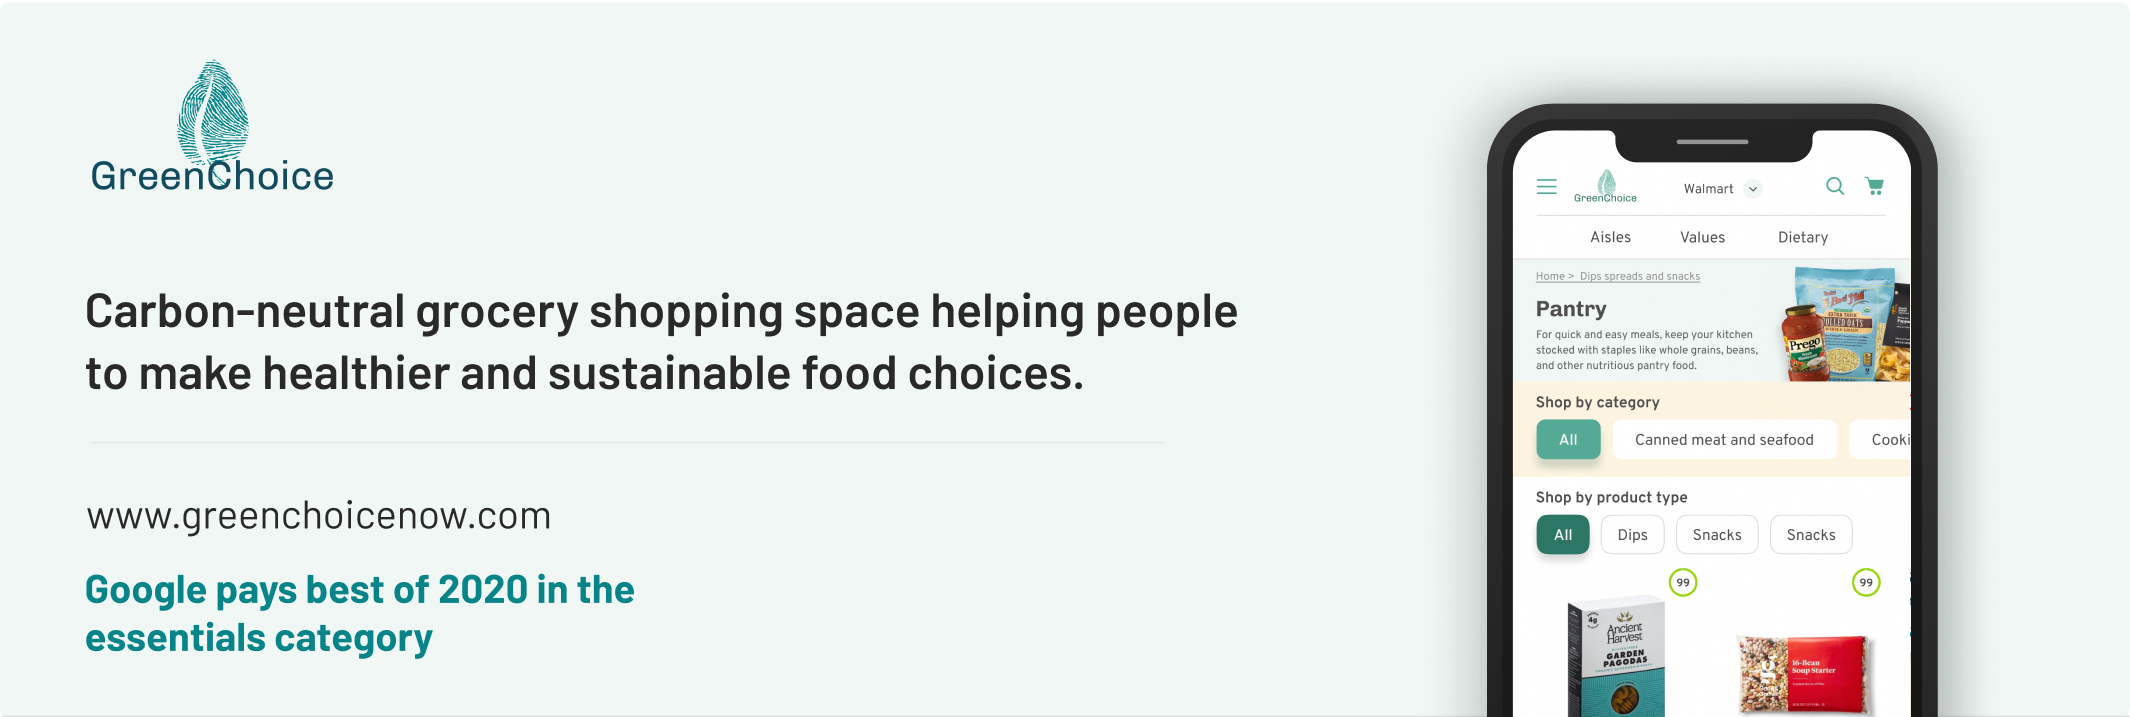
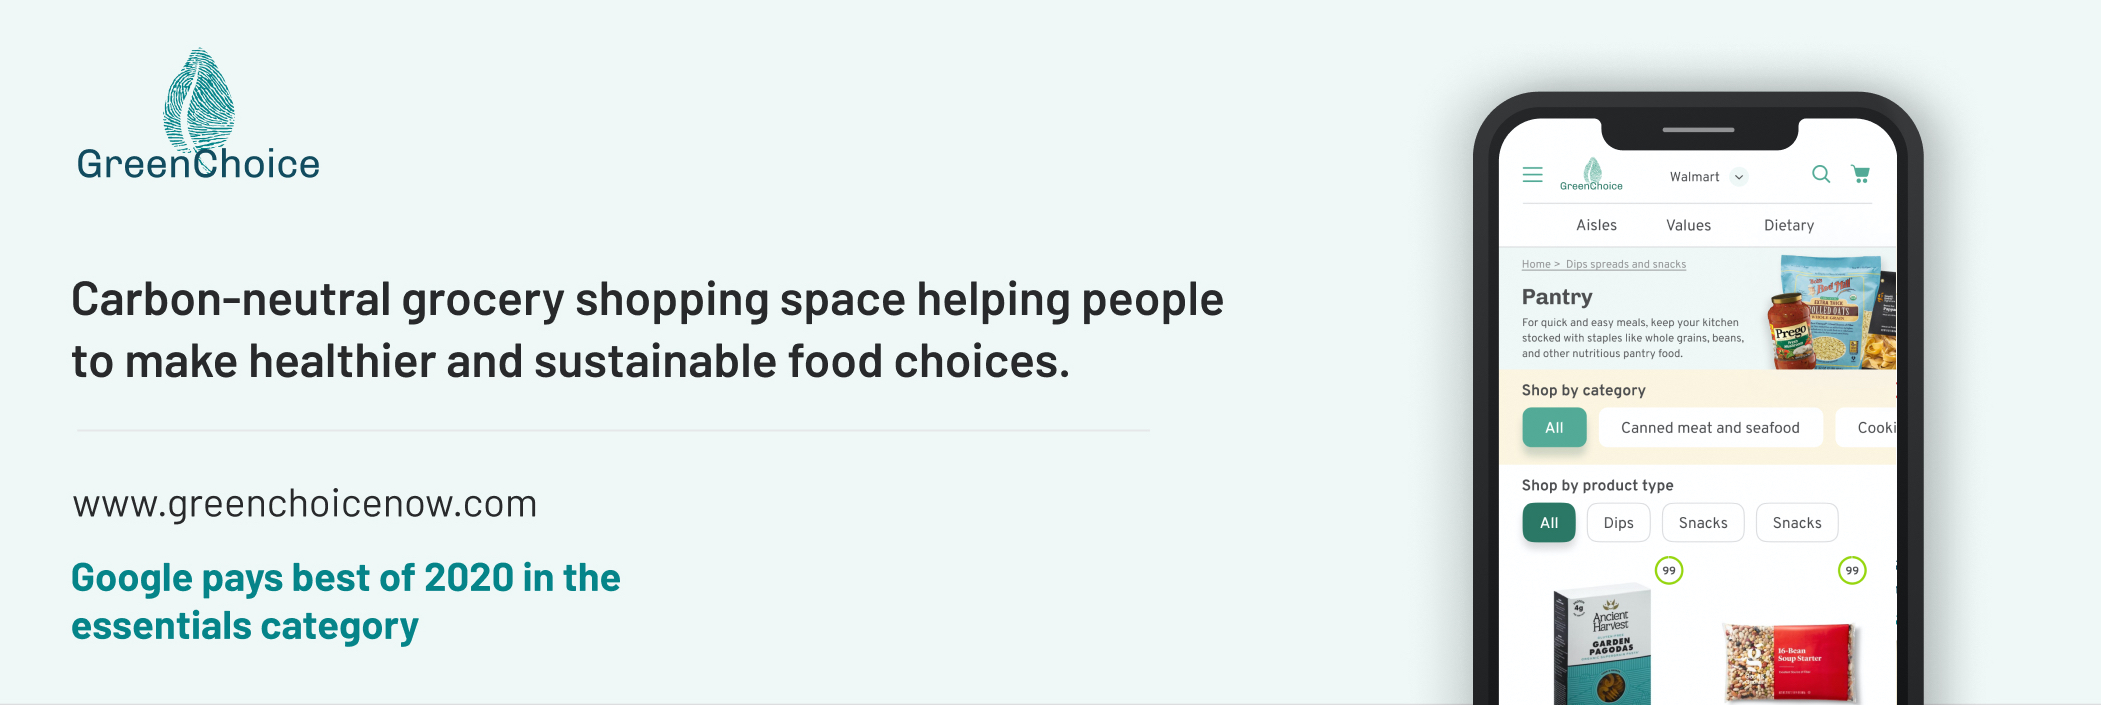
update in duct

diff --git a/index.html b/index.html
@@ -30,9 +30,10 @@
   <div style="background-image: url(./img/brandi-redd-aJTiW00qqtI-unsplash.jpeg);
 ">
 
-    <div class="container" style="padding: 15vmax 0;">
-      <div style="max-width: 250px;">
-        <img src="./img/kanso design works.png" alt="" srcset="" style="width: 100%; padding-left: 1em;">
+    <div class="container" style="padding: 14vmax 0;">
+      <div style=" text-align: left;">
+        <img src="./img/kanso design works.png" alt="" srcset="" 
+        style="width: 300px; padding-left: 1em;">
       </div>
     </div>
   </div>
@@ -52,22 +53,26 @@
   <style>
     .services {
       display: grid;
-      grid-template-columns: repeat(auto-fit, minmax(200px, 1fr));
-      grid-gap: 5rem;
+      grid-template-columns: repeat(auto-fit, minmax(220px, 1fr));
+      gap: 3rem;
     }
 
     .services>div {
 
       display: grid;
-      grid-template-rows: 0.5fr 1fr;
+      grid-template-rows: 0.3fr 1fr;
     }
 
     .services>div>div {
-      display: block;
+      align-self: baseline;
     }
 
     .services p {
-      max-width: 30ch;
+      max-width: 40ch;
+    }
+    .services img{
+      
+      align-self: end;
     }
   </style>
   <div class="container">
@@ -192,10 +197,8 @@
       grid-template-columns: repeat(auto-fit, minmax(340px, 1fr));
 
       grid-gap: 0.5rem;
-
+      color: ghostwhite;
       position: relative;
-      color: rgb(255, 255, 255);
-
       transition: ease-in 400ms;
     }
 
@@ -214,15 +217,13 @@
 
     .portfolio-img {
       height: 12em;
+      width: 100%;
       margin-top: 3em;
-
-      background-size: cover;
-
-
-      border-radius: 10px 10px 0px 0px;
-      border-right: rgb(236, 236, 236) 7px solid;
-      border-left: rgb(235, 235, 235) 7px solid;
-      border-top: rgb(216, 216, 216) 7px solid;
+      background-size: cover !important;
+      border-radius: 15px 15px 0px 0px;
+      border-right: rgb(27, 27, 27) 7px solid;
+      border-left: rgb(53, 53, 53) 7px solid;
+      border-top: rgb(71, 71, 71) 7px solid;
       filter: drop-shadow(0px 0px 20px rgba(65, 65, 65, 0.37));
 
     }
@@ -242,15 +243,38 @@
   <div class="container ">
     <h2>portfolio</h2>
     <div class="portfolio">
-      <a href="https://www.greenchoicenow.com/">
-        <div style="
-                    background: url(./img/portfolio/green-choice.jpeg);
-                    background-position: center;
-                    background-repeat: no-repeat;
-                    background-size: cover;
-                    height: 250px;">
+      
+      
+      <a href="" target="_blank" rel="noopener noreferrer">
+
+        <div style="background-color: #F0F7F5;
+                    display: flex;
+                    flex-wrap: wrap;
+                    align-content: space-between;
+                    align-items: stretch
+        ">
+          <div style="padding: 1em;
+                      max-width: 500px;
+                        ">
+            <img
+             style="max-width: 100px; padding-top: 2em;"
+             src="./img/portfolio/green-choise/logo.png" alt="">
+            <h3 style="color:initial">Carbon-neutral grocery shopping space helping people to make healthier and sustainable food choices.</h3>
+            <br>
+            <hr>
+            <p>www.greenchoicenow.com
+              <br>
+              <strong style="color:#078489">Google pays best of 2020 in the essentials category</strong></p>
+
+          </div>
+
+          <img 
+          style="max-width: 250px; text-align: center;"
+          src="./img/portfolio/green-choise/app.png" alt="" srcset="">
 
         </div>
+        <p style="color: initial; margin-top: 0px;"><small> CASE STUDY COMMING SOON...</small></p> 
+        
       </a>
     </div>
 
@@ -259,13 +283,13 @@
         <div style="background-color: #C1DDE8;">
           <h3>Homzhub</h3>
           <h4>Desktop App</h4>
-          <img class="portfolio-icon" style=" 
+          <!-- <img class="portfolio-icon" style=" 
                     height: 30px
                   ; padding: 1em
                   ; position: absolute
                   ; right: 0
                   ; top: 0
-                  ; " src="./img/portfolio/dribbble.png" alt="" srcset="">
+                  ; " src="./img/portfolio/dribbble.png" alt="" srcset=""> -->
           <div class="portfolio-img" style="background: url('./img/portfolio/Property details owner.jpeg')">
 
           </div>
@@ -276,7 +300,7 @@
         <div style="background-color: #A597FB;">
           <h3>Riverus Law Analytics</h3>
           <h4>Desktop App</h4>
-          <div class="portfolio-img" style="background: url('./img/portfolio/Analytics\ for\ judge.jpeg') ">
+          <div class="portfolio-img" style="background:  url('./img/portfolio/Analytics\ for\ judge.jpeg')">
 
           </div>
         </div>
@@ -286,7 +310,7 @@
         <div style="background-color: #95D6C1;">
           <h3>Duct Test Application </h3>
           <h4>Redesign Tablet App</h4>
-          <div class="portfolio-img" style="background: url('./img/portfolio/duct\ application.jpeg')">
+          <div class="portfolio-img" style="background-image: url('./img/duct-test-application/app.jpeg')">
 
           </div>
         </div>
@@ -372,7 +396,7 @@
 
 
   <!-- container properties except padding hence inline style mentioned -->
-  <footer class="container" style="padding: 1em 1em;">
+  <footer class="container">
     <h3>Reach out to us</h3>
     <ul>
       <li><a href="mailto:anaypatil@kansodesignworks.co">email </a> </li>

diff --git a/style.css b/style.css
@@ -1,5 +1,5 @@
 :root {
-    font-size: 18px;
+    font-size: 16px;
 }
 
 
@@ -12,6 +12,8 @@ body {
   margin: 0;
   padding: 0;
   font-family: 'Barlow Semi Condensed', sans-serif;
+  color: rgba(61, 61, 61, 0.945);
+
   position: relative;
 }
 
@@ -41,6 +43,7 @@ h4 {
 h5{
   font-weight: 200;
   letter-spacing: 0.3em;
+  color:#F52D01;
 }
 
 p {
@@ -87,7 +90,9 @@ a {
 }
 
 
-
+footer{
+  padding: 3em 1em !important;
+}
 
 footer ul {
   padding: 0;

diff --git a/duct-test-application.html b/duct-test-application.html
@@ -120,11 +120,14 @@
 
 
 
+    <br>
+    <br>
+    <br>
 
 
   <!-- container properties except padding hence inline style mentioned -->
   <footer class="container" style="padding: 1em 1em;">
-    <h3>Reach out to us</h3>
+    <h3>Let's build a better tomorrow.</h3>
     <ul>
       <li><a href="mailto:anaypatil@kansodesignworks.co">email </a> </li>
       <li><a href="tel:+91 90498 54352">call </a> </li>
